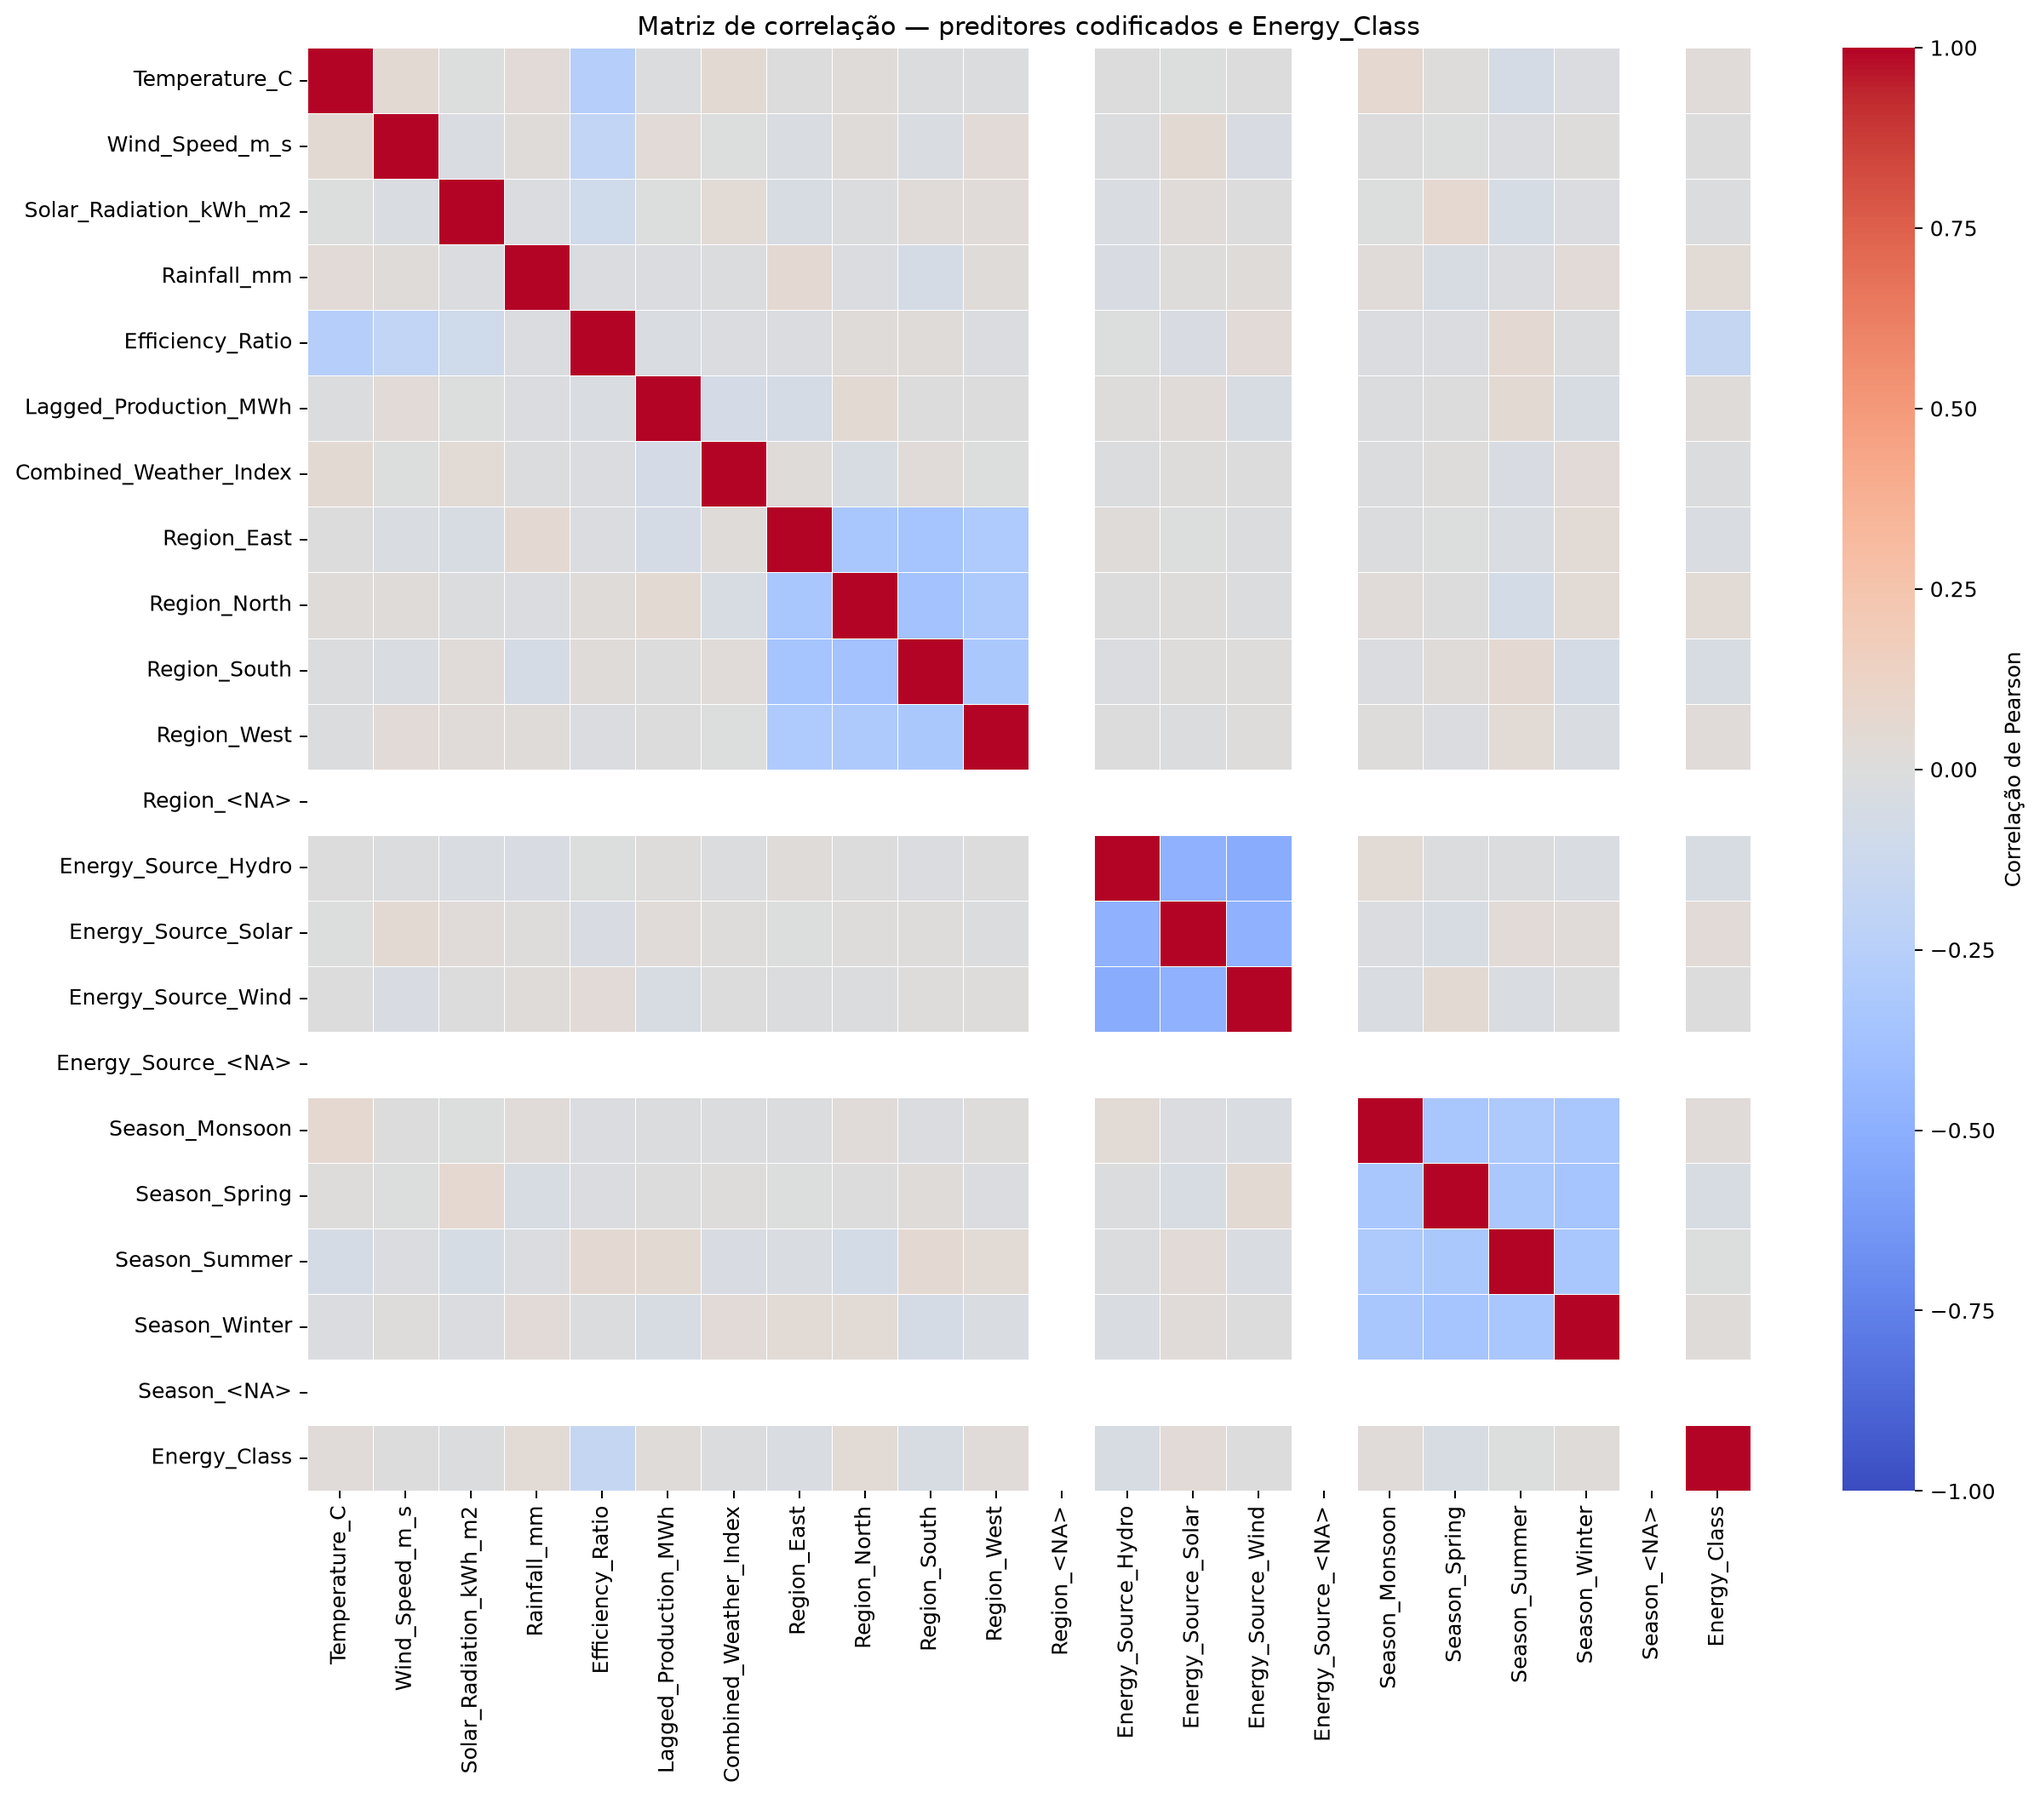
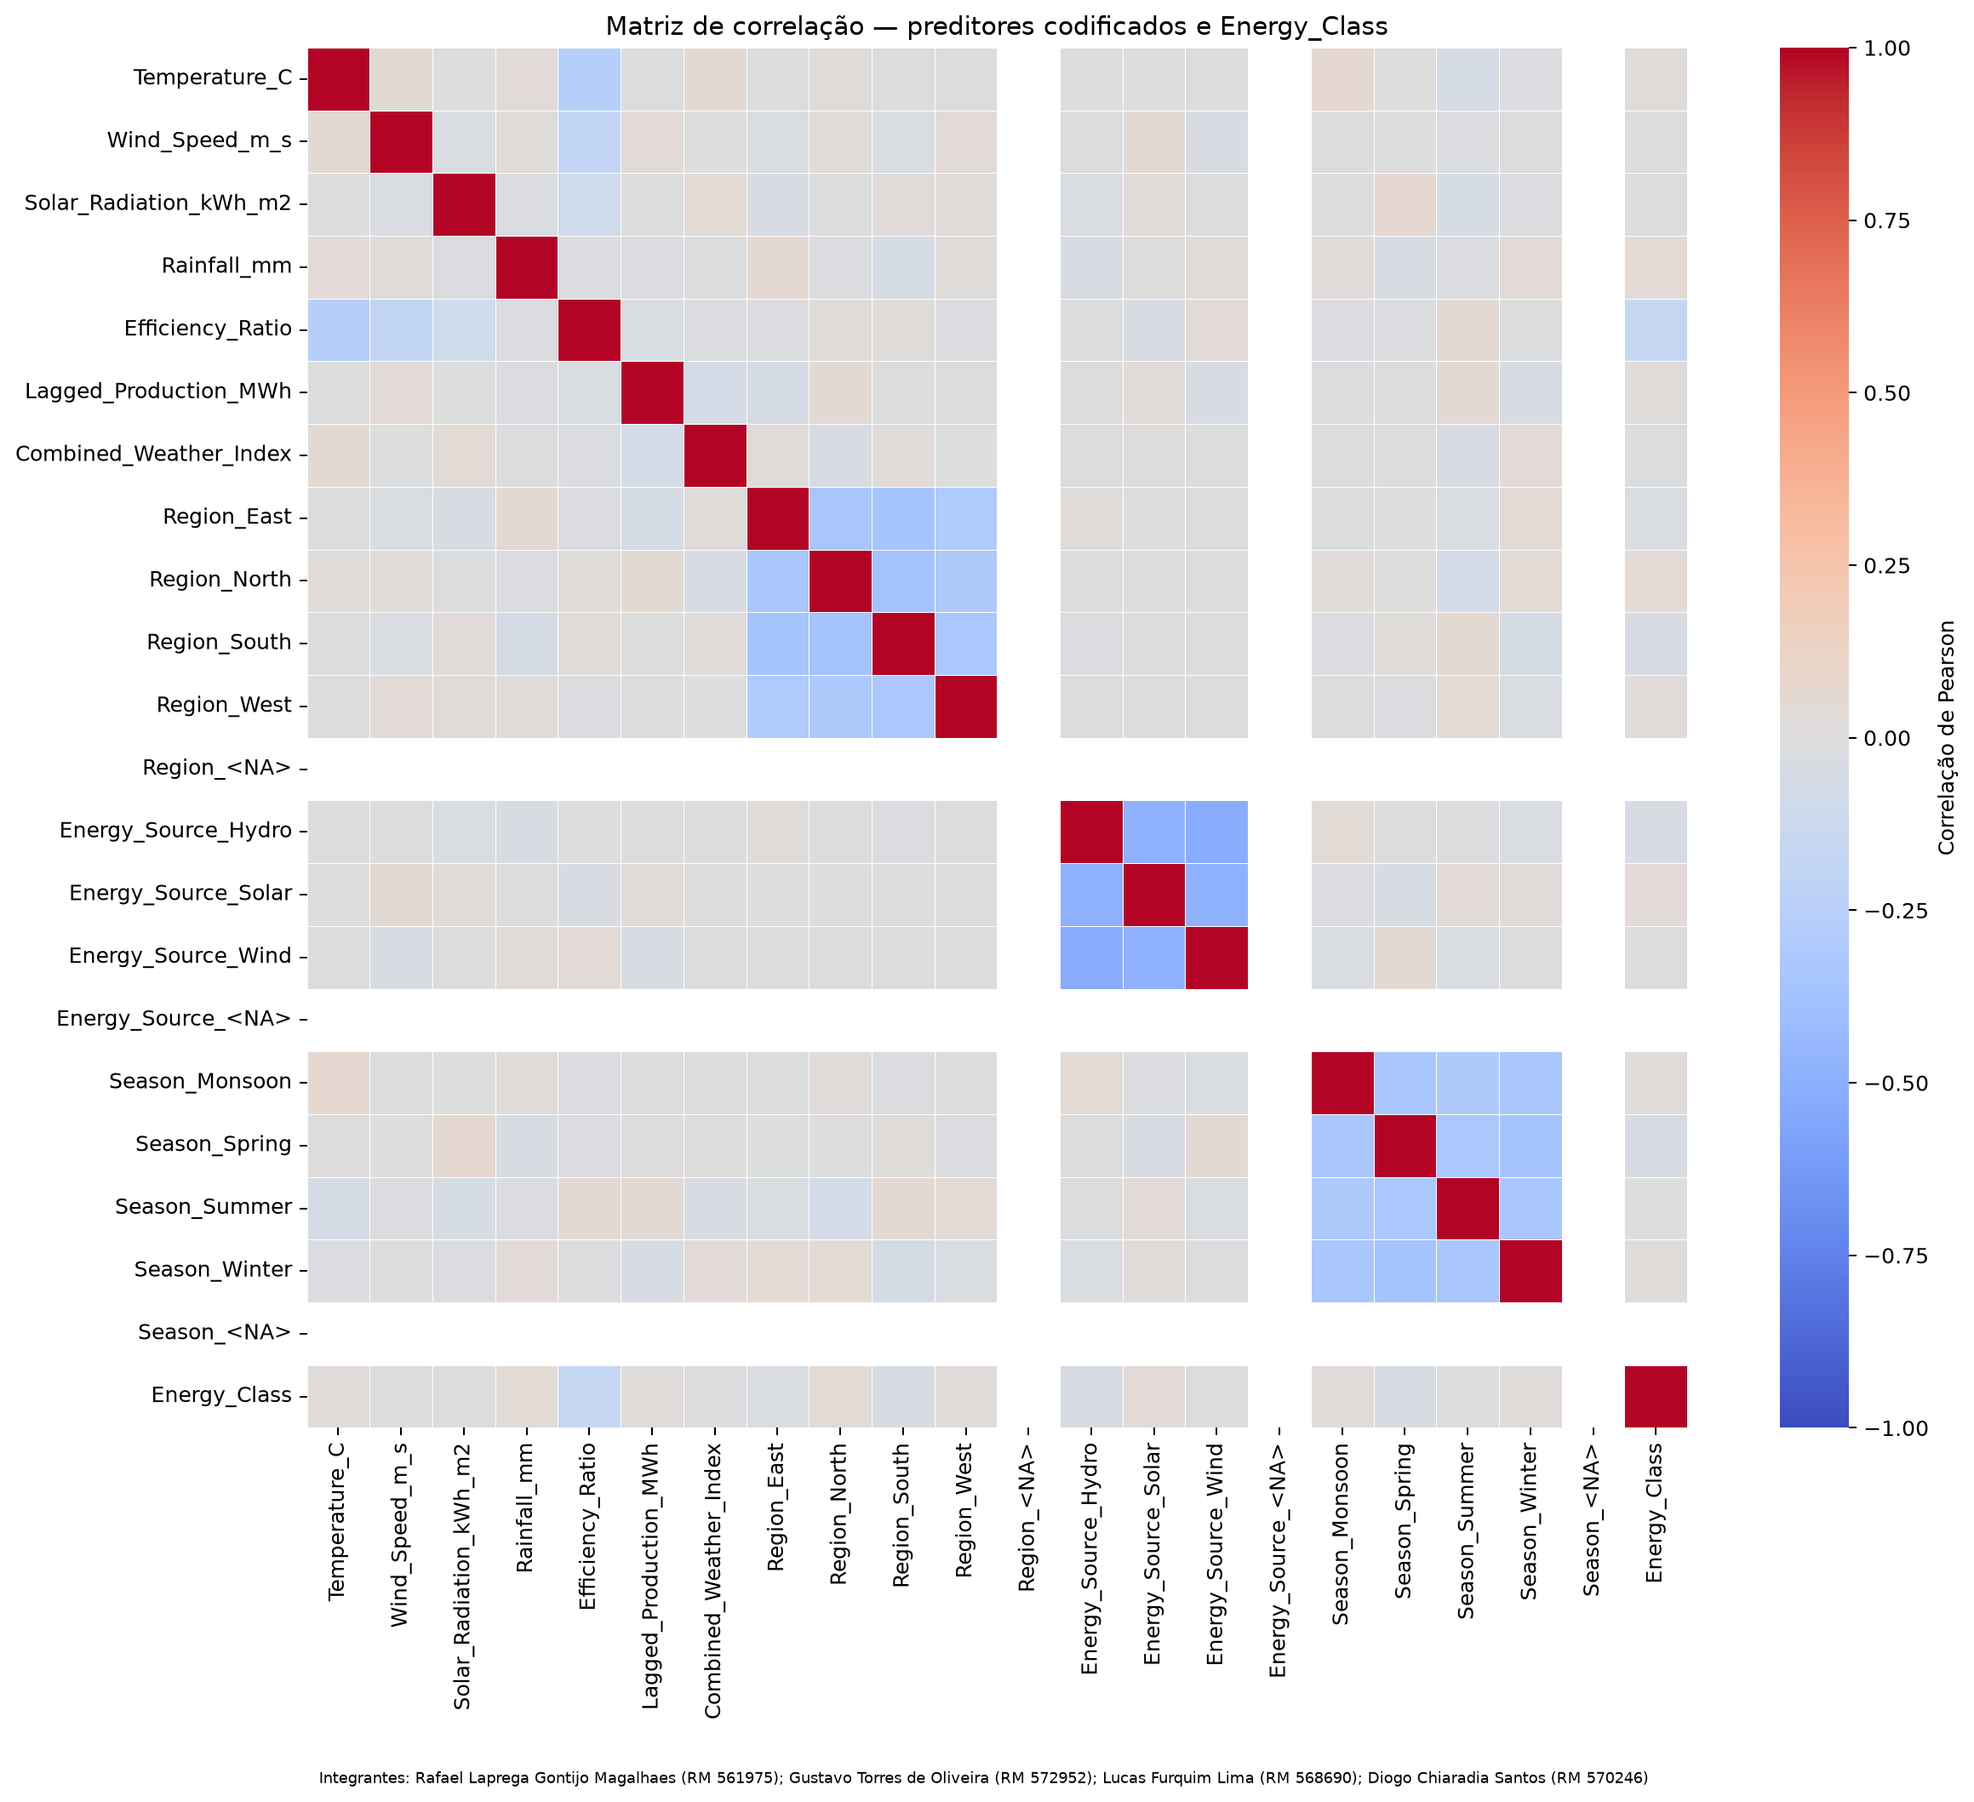
Add team identification to analysis artifacts

diff --git a/src/analysis.py b/src/analysis.py
@@ -40,6 +40,11 @@ DEFAULT_DATA_PATH = ROOT_DIR / "data" / "renewable_energy_production_dataset.csv
 OUTPUT_DIR = ROOT_DIR / "outputs"
 TARGET = "Energy_Class"
 RANDOM_STATE = 42
+TEAM_LABEL = (
+    "Integrantes: Rafael Laprega Gontijo Magalhaes (RM 561975); "
+    "Gustavo Torres de Oliveira (RM 572952); Lucas Furquim Lima (RM 568690); "
+    "Diogo Chiaradia Santos (RM 570246)"
+)
 
 
 def _make_one_hot_encoder() -> OneHotEncoder:
@@ -151,7 +156,8 @@ def plot_correlation_matrix(correlation: pd.DataFrame, output_dir: Path, show: b
         ax=ax,
     )
     ax.set_title("Matriz de correlação — preditores codificados e Energy_Class")
-    plt.tight_layout()
+    plt.tight_layout(rect=(0, 0.035, 1, 1))
+    fig.text(0.5, 0.008, TEAM_LABEL, ha="center", va="bottom", fontsize=7)
     fig.savefig(output_dir / "correlation_heatmap.png", dpi=180, bbox_inches="tight")
     if show:
         plt.show()
@@ -300,7 +306,8 @@ def evaluate_scenario(
     display = ConfusionMatrixDisplay(confusion_matrix=cm, display_labels=class_names)
     display.plot(ax=ax, cmap="Blues", values_format="d", colorbar=False, xticks_rotation=35)
     ax.set_title(f"Matriz de confusão — {scenario_name} ({test_size:.0%} teste)")
-    plt.tight_layout()
+    plt.tight_layout(rect=(0, 0.035, 1, 1))
+    fig.text(0.5, 0.008, TEAM_LABEL, ha="center", va="bottom", fontsize=7)
     safe_name = scenario_name.lower().replace(" ", "_")
     fig.savefig(output_dir / f"confusion_matrix_{safe_name}.png", dpi=180, bbox_inches="tight")
     if show:
@@ -343,7 +350,7 @@ def run_analysis(data_path: Path = DEFAULT_DATA_PATH, show: bool = True) -> pd.D
     results = pd.DataFrame(outcomes)
     results.to_csv(OUTPUT_DIR / "metrics_comparison.csv", index=False, encoding="utf-8")
     (OUTPUT_DIR / "classification_reports.txt").write_text(
-        "\n\n".join(reports), encoding="utf-8"
+        TEAM_LABEL + "\n\n" + "\n\n".join(reports), encoding="utf-8"
     )
     print("\nComparação dos cenários:")
     print(results.to_string(index=False, float_format=lambda value: f"{value:.4f}"))
